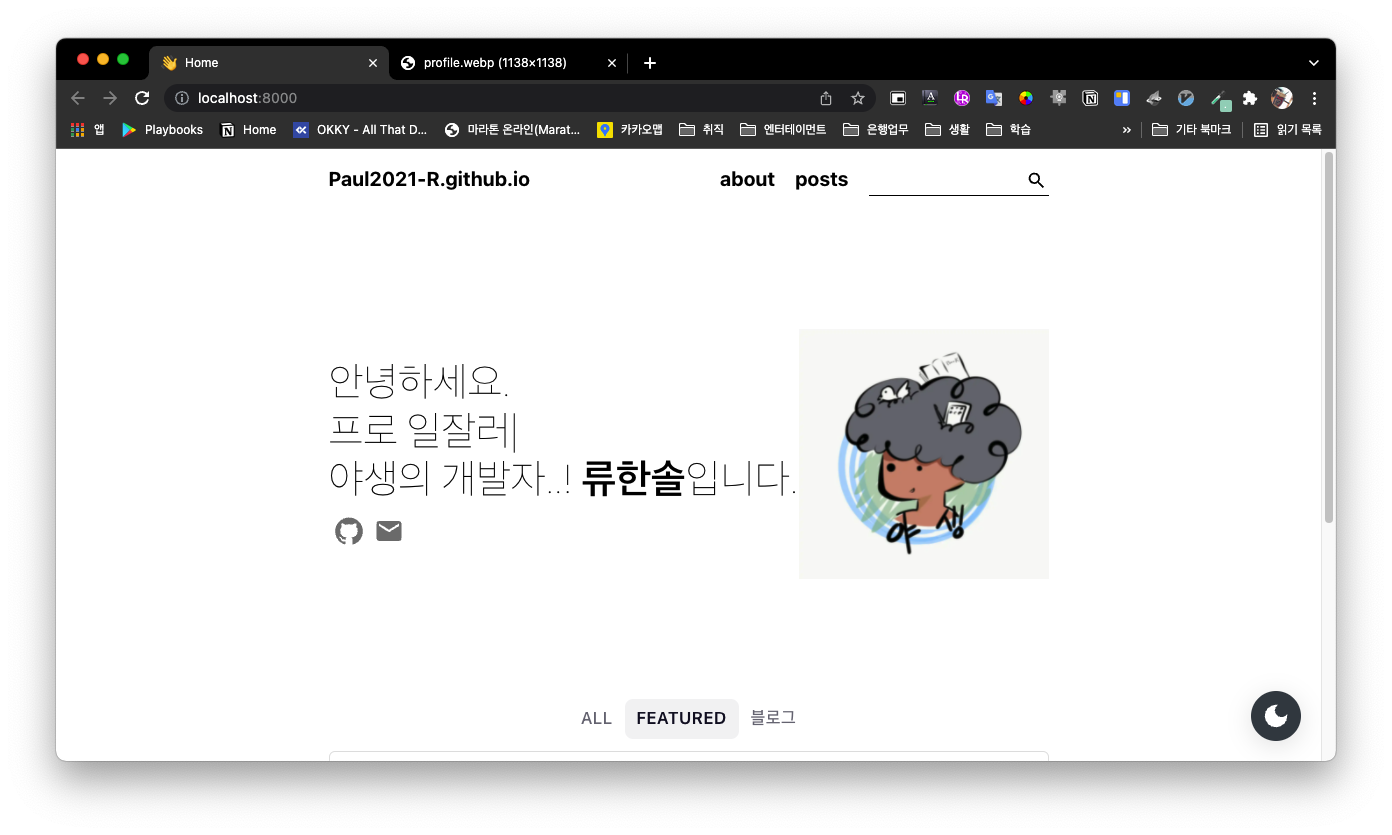
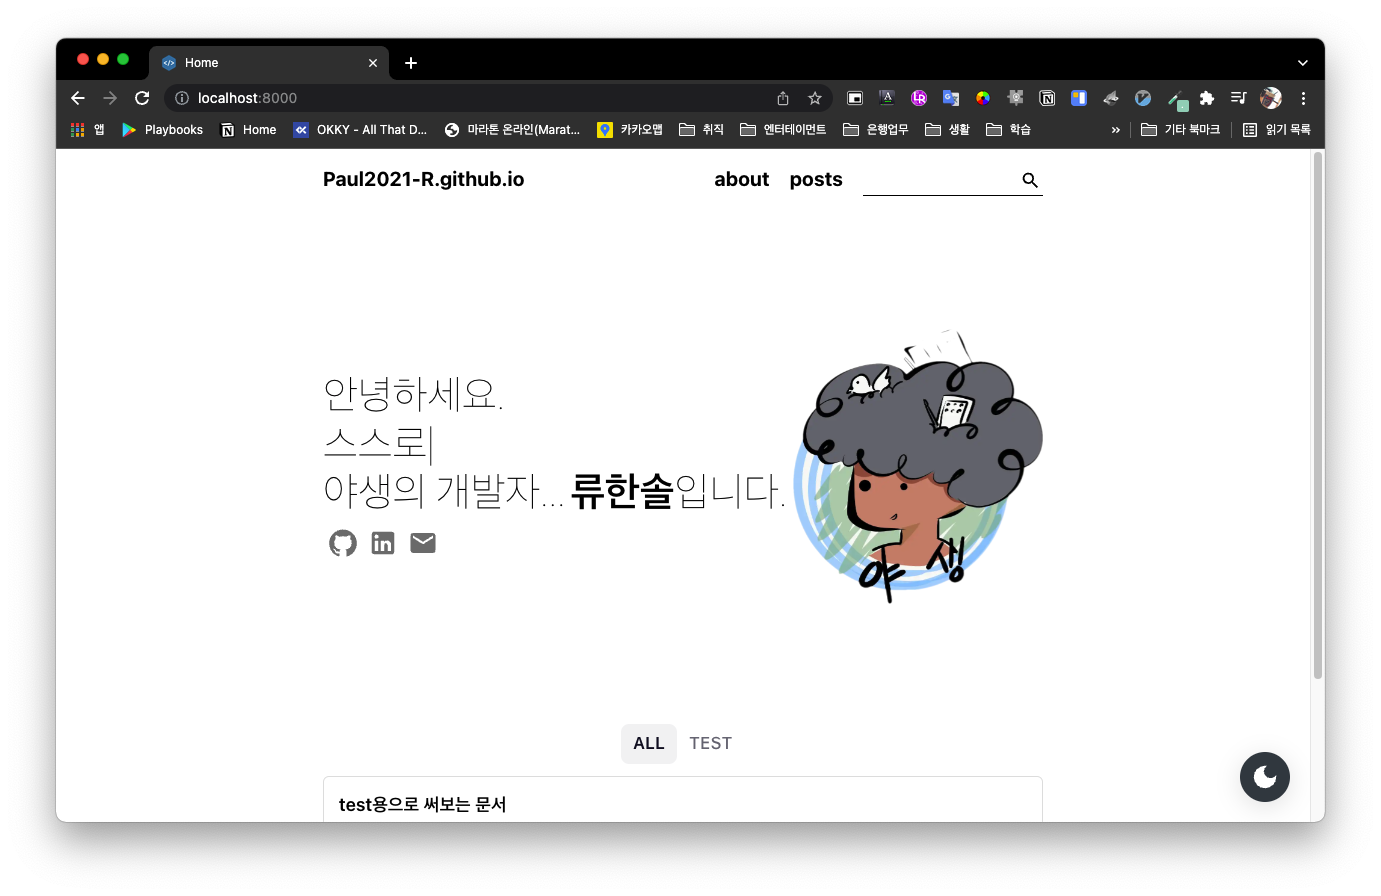
블로그 세부 내용 재 수정 완료. 파비콘, og-image 삽입

diff --git a/gatsby-meta-config.js b/gatsby-meta-config.js
@@ -1,9 +1,9 @@
 module.exports = {
-  title: `Paul2021-R.github.io`,
-  description: `전지적 사회학적 시점의 Paul`,
+  title: `Be.Insight.Coder`,
+  description: `반갑습니다. 인문학적, 소통하는 개발자 류한솔의 기술 블로그입니다.`,
   language: `ko`, // `ko`, `en` => currently support versions for Korean and English
   siteUrl: `https://paul2021-r.github.io/`,
-  ogImage: `profile.png`, // Path to your in the 'static' folder
+  ogImage: `og-image.png`, // Path to your in the 'static' folder
   comments: {
     utterances: {
       repo: `Paul2021-R/Paul2021-R.github.io`, // `zoomkoding/zoomkoding-gatsby-blog`,
@@ -43,10 +43,10 @@ module.exports = {
       // ========================================================
       // ========================================================
       {
-        date: '2021.09 ~',
-        activity: '42 Seoul Start!',
+        date: '2021.09 ~ 10',
+        activity: '42 Seoul Lapiscine',
         links: {
-          post: '',
+          post: 'https://42seoul.kr/seoul42/main/view',
           github: '',
           demo: '',
         },
@@ -96,7 +96,7 @@ module.exports = {
       {
         title: '개발 블로그 테마 적용',
         description:
-          '기술 블로그 운영 및 향후 프로젝트 쇼케이스 용으로 활용할 기술블로그 적용 및 최적화를 진행하였습니다. Mac Arm에 호환되지 않은 요소들이 많았기에 해당 호환성 개선 및 Gatsby를 활용한 정적 페이지 생성을 완료.',
+          '기술 블로그 운영 및 향후 프로젝트 쇼케이스 용으로 활용할 기술블로그 적용 및 최적화를 진행하였습니다. Mac M1 Processor에 호환되지 않은 요소들이 많았기에 해당 호환성 개선, Favicon update, profile image,utterance 적용, Gatsby를 활용한 정적 페이지 생성을 완료.',
         techStack: ['gatsby', 'react', 'Java Script'],
         thumbnailUrl: 'blog.png',
         links: {
